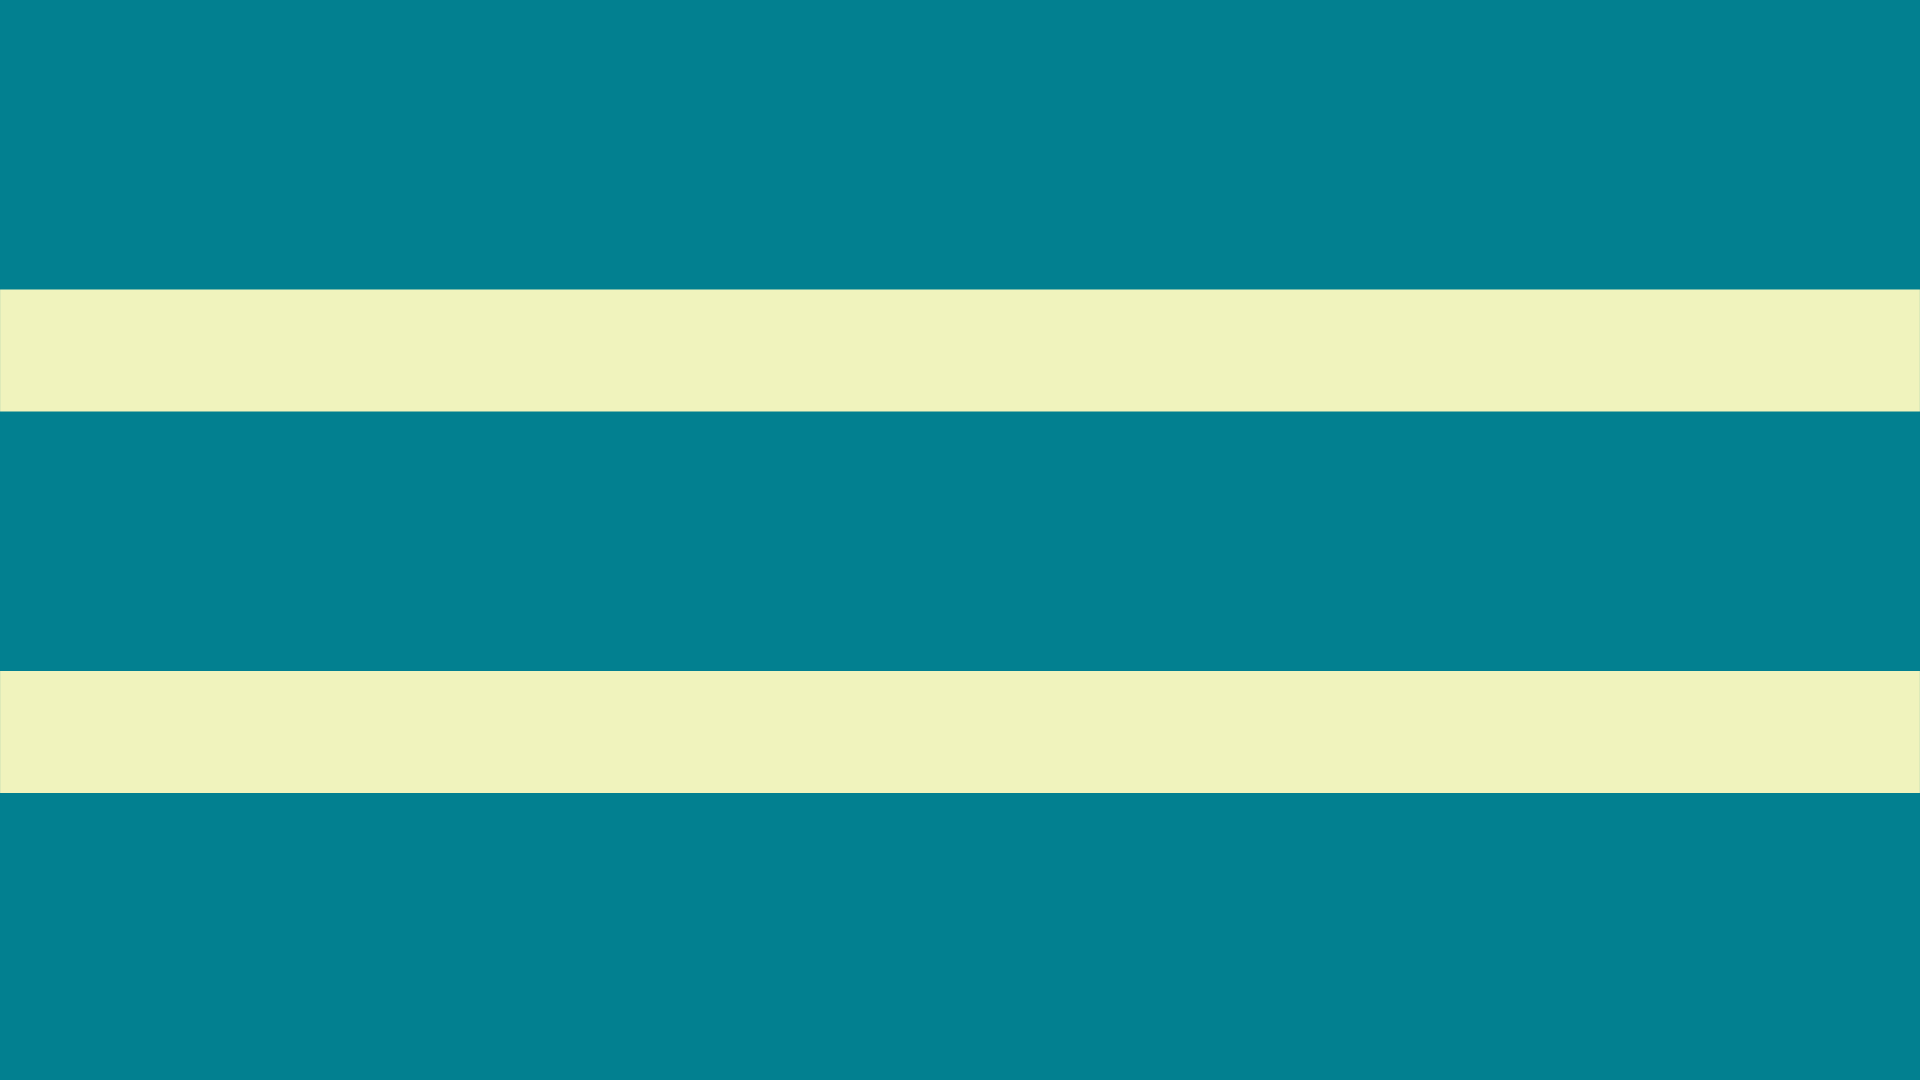
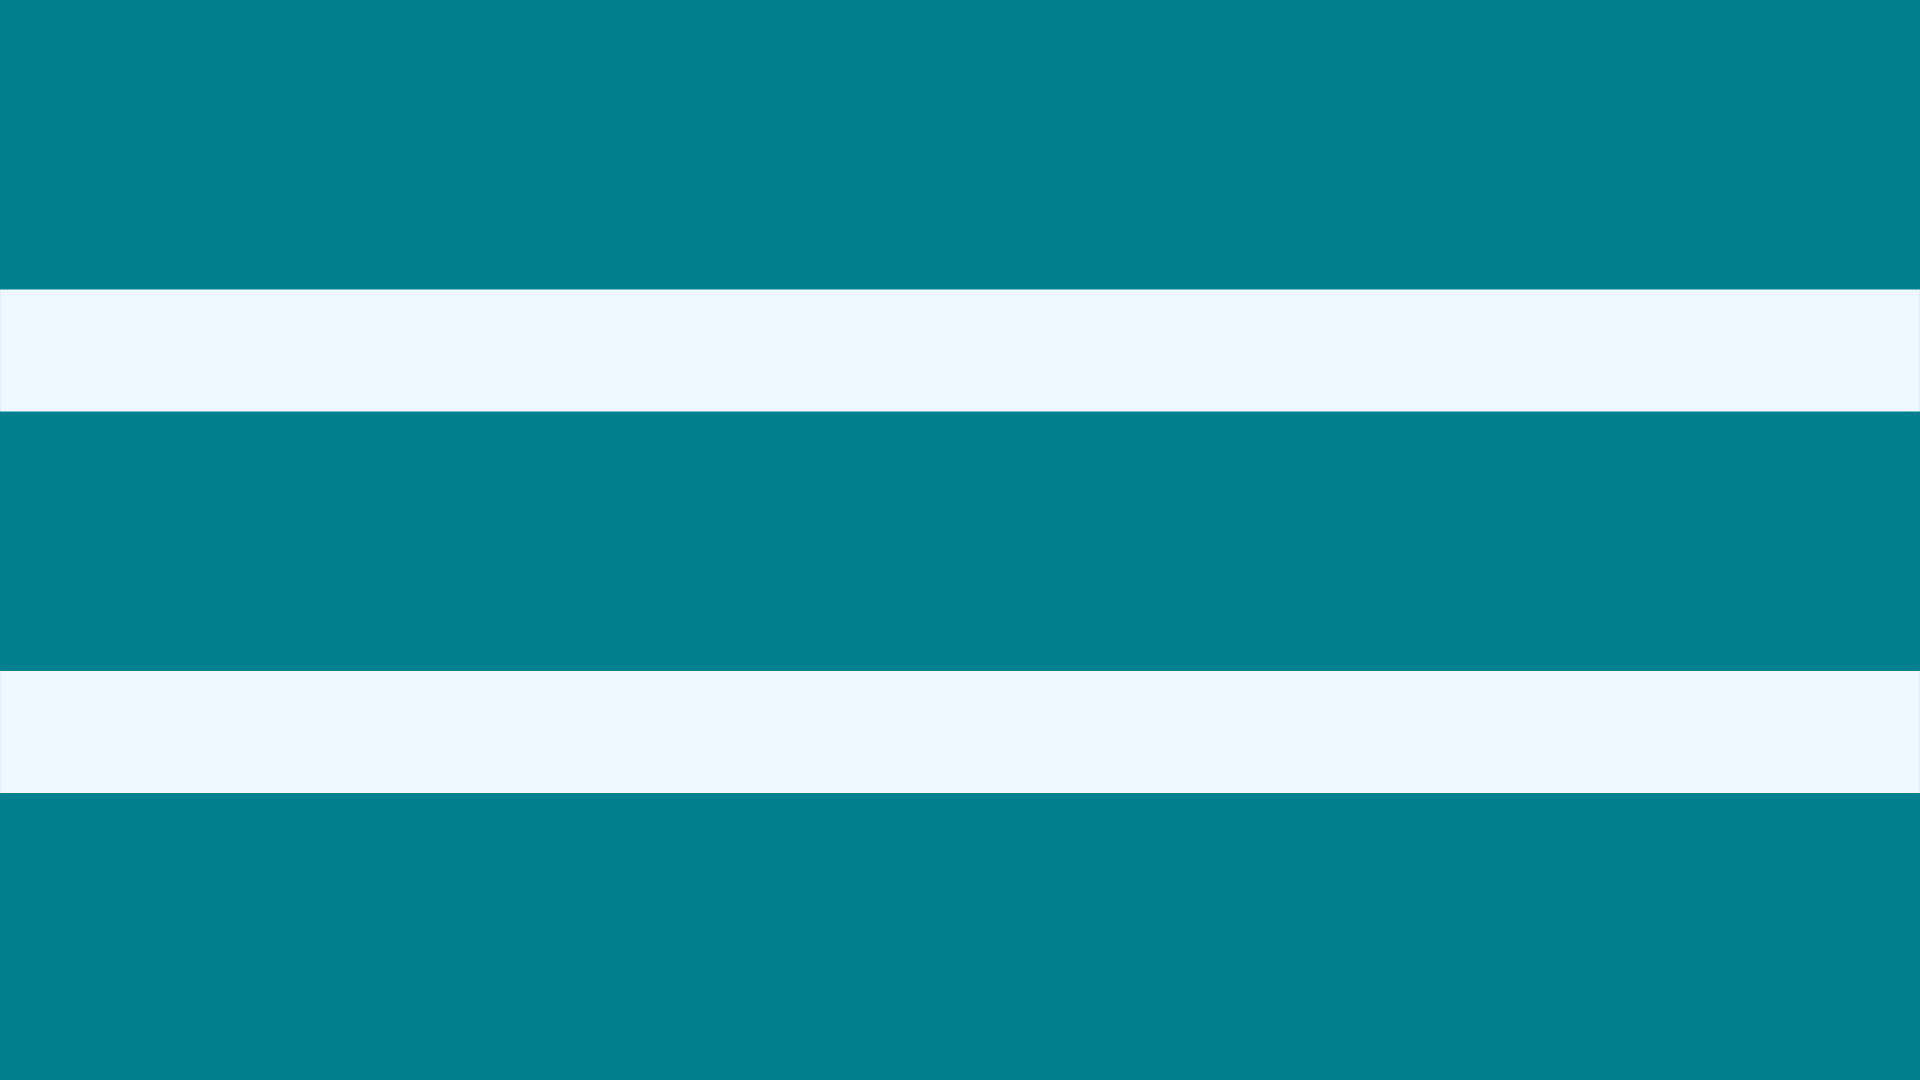
changed homepage image colours

Changed region(s): [[0.0, 0.2444, 1.0, 0.3972], [0.0, 0.6111, 1.0, 0.7333]]

diff --git a/portfolioWebsite.css b/portfolioWebsite.css
@@ -141,7 +141,7 @@ header h1 {
     order: 1;
     margin-right: 40px;
     margin-left: 20px;
-    border: 5px solid #F0F3BD;
+    border: 5px solid aliceblue;
     border-radius: 15px;
 }
 
@@ -149,7 +149,7 @@ header h1 {
     order: 2;
     margin-right: 20px;
     margin-left: 40px;
-    border: 5px solid #F0F3BD;
+    border: 5px solid aliceblue;
     border-radius: 15px;
 }
 
@@ -157,7 +157,7 @@ header h1 {
     order: 1;
     margin-right: 40px;
     margin-left: 20px;
-    border: 5px solid #F0F3BD;
+    border: 5px solid aliceblue;
     border-radius: 15px;
 }
 
@@ -165,7 +165,7 @@ header h1 {
     order: 2;
     margin-right: 20px;
     margin-left: 40px;
-    border: 5px solid #F0F3BD;
+    border: 5px solid aliceblue;
     border-radius: 15px;
 }
 
